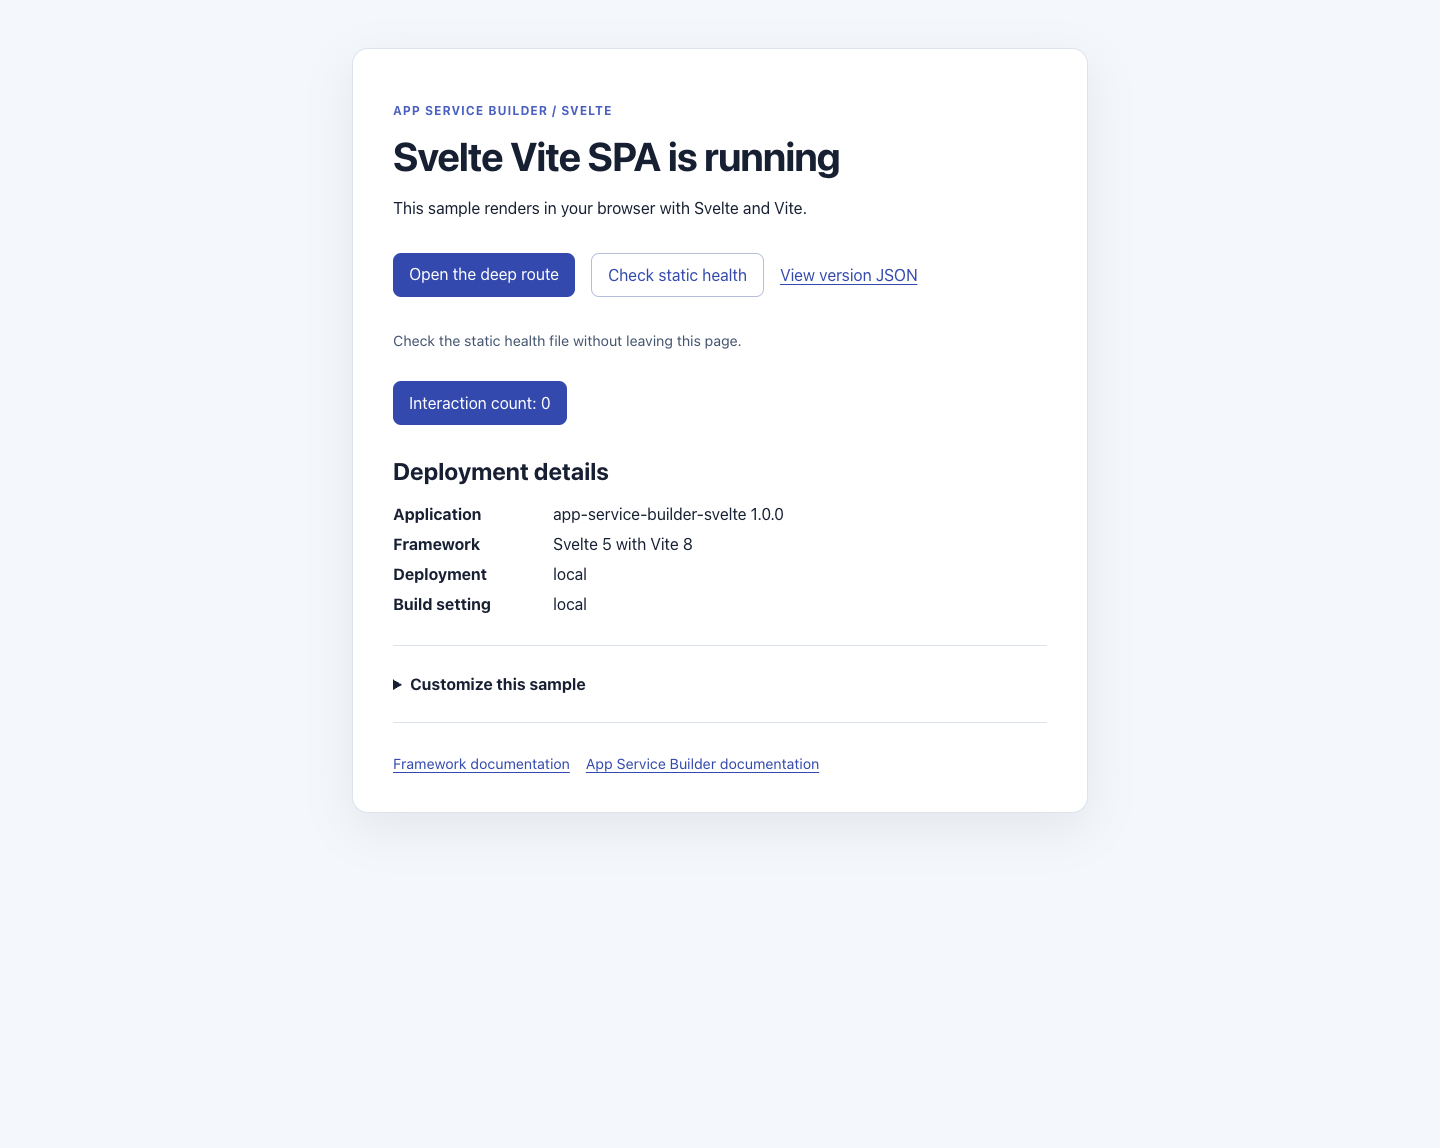
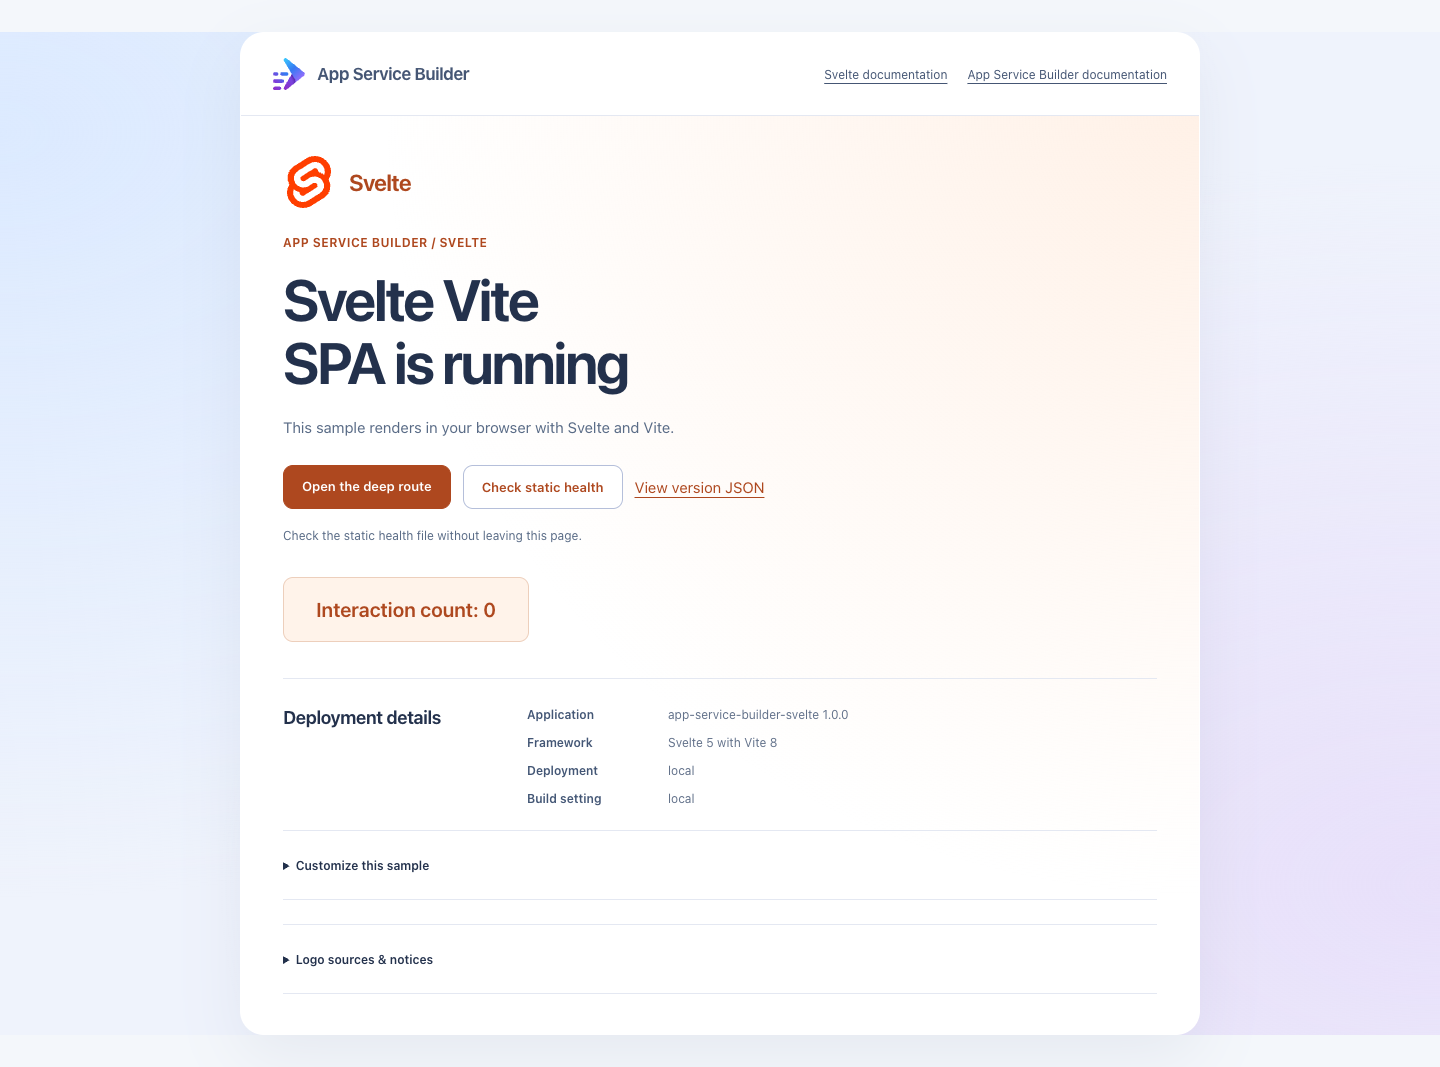
Apply approved language-family sample styling
Preserve sample interactions, inline health checks and honest customization guidance; refresh the locally rendered README screenshot.

diff --git a/public/brand/family.v1.css b/public/brand/family.v1.css
@@ -1,0 +1,36 @@
+html body{margin:0;min-height:100vh;background:radial-gradient(ellipse at 0 10%,#dceaff,transparent 60%),radial-gradient(ellipse at 100% 85%,#e8e0fa,transparent 60%),#eff3fc;color:#23314c;font-family:"Segoe UI",system-ui,sans-serif;font-size:15px;--accent:#ae481f;--line:#e4e8f2}
+main.sample-sheet{width:min(960px,calc(100% - 64px));margin:32px auto;padding:0;background:#fff;border:1px solid #ffffffbd;border-radius:24px;box-shadow:0 22px 65px #3b487515;overflow:hidden}
+.sample-header{display:flex;align-items:center;justify-content:space-between;gap:24px;padding:25px 32px;border-bottom:1px solid var(--line)}
+.sample-brand{display:flex;align-items:center;gap:12px;font-size:17px;font-weight:650;letter-spacing:-.02em;color:#23314c;text-decoration:none}
+.sample-brand img{width:32px;height:32px;object-fit:contain}
+.sample-header nav{display:flex;flex-wrap:wrap;gap:20px;margin:0;font-size:12px}
+.sample-header a{color:#455674;text-underline-offset:4px}
+.sample-content{padding:40px 42px}
+.ecosystem-logo{display:flex;align-items:center;gap:14px;margin-bottom:24px;color:var(--accent);font-size:23px;font-weight:650;letter-spacing:-.03em}
+.ecosystem-logo img{width:52px;height:52px;object-fit:contain}
+.sample-content h1{font-size:clamp(32px,4.4vw,58px);line-height:1.09;letter-spacing:-.04em;font-weight:650;margin:0 0 20px;text-wrap:balance}
+.sample-content h2{font-size:18px;font-weight:650;letter-spacing:-.02em;margin:0 0 14px}
+.sample-content p{line-height:1.8;color:#596b86}
+.sample-content .eyebrow{color:var(--accent);font-size:12px;font-weight:650;letter-spacing:.04em;margin:0 0 14px}
+.sample-content nav{display:flex;flex-wrap:wrap;align-items:center;gap:12px;margin:24px 0 16px}
+.sample-content a{color:var(--accent);text-underline-offset:4px}
+.sample-content button,.sample-content .button{min-height:44px;padding:12px 18px;border:1px solid var(--accent);border-radius:10px;background:var(--accent);color:#fff;font:inherit;font-size:13px;font-weight:600;text-decoration:none;cursor:pointer}
+.sample-content button.secondary{background:#fff;color:var(--accent)}
+.sample-content button:hover,.sample-content .button:hover{filter:brightness(.92)}
+.sample-content button:disabled{opacity:.6;cursor:wait}
+.sample-content .health-result{font-size:12px;line-height:1.8;min-height:24px}
+.sample-content dl{display:grid;gap:13px;margin:24px 0 0;padding-top:24px;border-top:1px solid var(--line);font-size:12px}
+.sample-content dl div{display:grid;grid-template-columns:125px 1fr;gap:16px}
+.sample-content dt{color:#435675;font-weight:600}
+.sample-content dd{margin:0;color:#62718a;overflow-wrap:anywhere}
+.sample-content details{margin-top:24px;padding:12px 0;border-block:1px solid var(--line);font-size:12px}
+.sample-content summary{cursor:pointer;font-weight:600;min-height:44px;align-content:center}
+.sample-content code{font-size:12px;overflow-wrap:anywhere}
+.sample-content .documentation{font-size:12px;justify-content:space-between}
+a:focus-visible,button:focus-visible,summary:focus-visible{outline:3px solid #7660d0;outline-offset:4px}
+.sample-content{background:radial-gradient(ellipse at 100% 0,#fff1e7,transparent 60%),#fff}
+.sample-content h1{max-width:14ch}
+.sample-content>.button{display:block;margin:28px 0 36px;background:#fff3ea;color:var(--accent);padding:20px 32px;font-size:20px;border-color:#edcfbc}
+.sample-content>section{display:grid;grid-template-columns:220px minmax(0,1fr);gap:24px;padding-top:28px;border-top:1px solid var(--line)}
+.sample-content>section dl{padding:0;border:0;margin:0}
+@media(max-width:650px){main.sample-sheet{width:calc(100% - 30px);margin:18px auto;border-radius:19px}.sample-header{padding:22px;flex-wrap:wrap;gap:18px}.sample-header nav{width:100%;justify-content:space-between;gap:12px;font-size:11px}.sample-content{padding:32px 22px}.sample-content h1{font-size:36px}.sample-content dl div{grid-template-columns:1fr;gap:4px}.sample-content nav{align-items:stretch}.sample-content .documentation{gap:14px}.sample-content>section{grid-template-columns:1fr}}

diff --git a/src/App.svelte b/src/App.svelte
@@ -59,7 +59,16 @@
 <svelte:window onpopstate={syncPath} />
 
 {#if currentPath === '/'}
-  <main>
+  <main class="sample-sheet">
+    <header class="sample-header">
+      <a class="sample-brand" href="/"><img src="/brand/builder.svg" alt="" width="32" height="32" />App Service Builder</a>
+      <nav aria-label="Documentation">
+        <a href="https://svelte.dev/docs">Svelte documentation</a>
+        <a href="https://builder.appservice.azure.com/docs/">App Service Builder documentation</a>
+      </nav>
+    </header>
+    <div class="sample-content">
+    <div class="ecosystem-logo"><img src="/brand/svelte.svg" alt="" width="52" height="52" /><span>Svelte</span></div>
     <p class="eyebrow">App Service Builder / Svelte</p>
     <h1>Svelte Vite SPA is running</h1>
     <p>This sample renders in your browser with Svelte and Vite.</p>
@@ -95,12 +104,15 @@
     <details>
       <summary>Customize this sample</summary>
       <p>In your fork, edit the home page in <code>src/App.svelte</code> and the styles in
-        <code> src/app.css</code>. Commit your changes and deploy your fork through your Builder App.</p>
+        <code> public/brand/family.v1.css</code>. Commit your changes and deploy your fork through your Builder App.</p>
     </details>
-    <nav class="documentation" aria-label="Documentation">
-      <a href="https://svelte.dev/docs">Framework documentation</a>
-      <a href="https://builder.appservice.azure.com/docs/">App Service Builder documentation</a>
-    </nav>
+    <details>
+      <summary>Logo sources &amp; notices</summary>
+      <p>Unmodified <a href="https://svelte.dev/">Svelte artwork</a> identifies this framework.
+        Svelte is a trademark of its respective owner. App Service Builder uses its supplied
+        official mark. No endorsement implied.</p>
+    </details>
+    </div>
   </main>
 {:else if currentPath === '/products/widget-1'}
   <main>

diff --git a/index.html b/index.html
@@ -8,6 +8,7 @@
       content="Svelte and Vite single-page application sample for Azure App Service Builder."
     />
     <title>App Service Builder: Svelte sample</title>
+    <link rel="stylesheet" href="/brand/family.v1.css" />
   </head>
   <body>
     <div id="app"></div>

diff --git a/README.md b/README.md
@@ -18,8 +18,20 @@ success or regional availability.
 
 ![Svelte root page with deep-route navigation, an interactive counter, inline static health feedback, and customization help](docs/images/sample.png)
 
-Rendered locally at `/` from the production build with sample settings. This
-screenshot is not evidence of an Azure deployment.
+**LOCAL — Microsoft Edge, 1440px desktop, root `/`, production static build.**
+This screenshot is not evidence of an Azure deployment.
+
+The warm Svelte composition keeps its rune counter, browser History API routes,
+and inline static-file health check. Edit `src/App.svelte` for content and
+`public/brand/family.v1.css` for the visual family; baseline styles remain in
+`src/app.css`.
+
+### Logo provenance
+
+`public/brand/builder.svg` is the supplied official App Service Builder mark.
+`public/brand/svelte.svg` is the unmodified [official Svelte SVG](https://svelte.dev/svelte-logo.svg)
+from [svelte.dev](https://svelte.dev/). Svelte is a trademark of its respective
+owner. Logos identify the stack; no endorsement is implied.
 
 **Check static health** reads `/health.json` and displays the result in place,
 including failures and retry guidance. A reachable static file is not a backend
